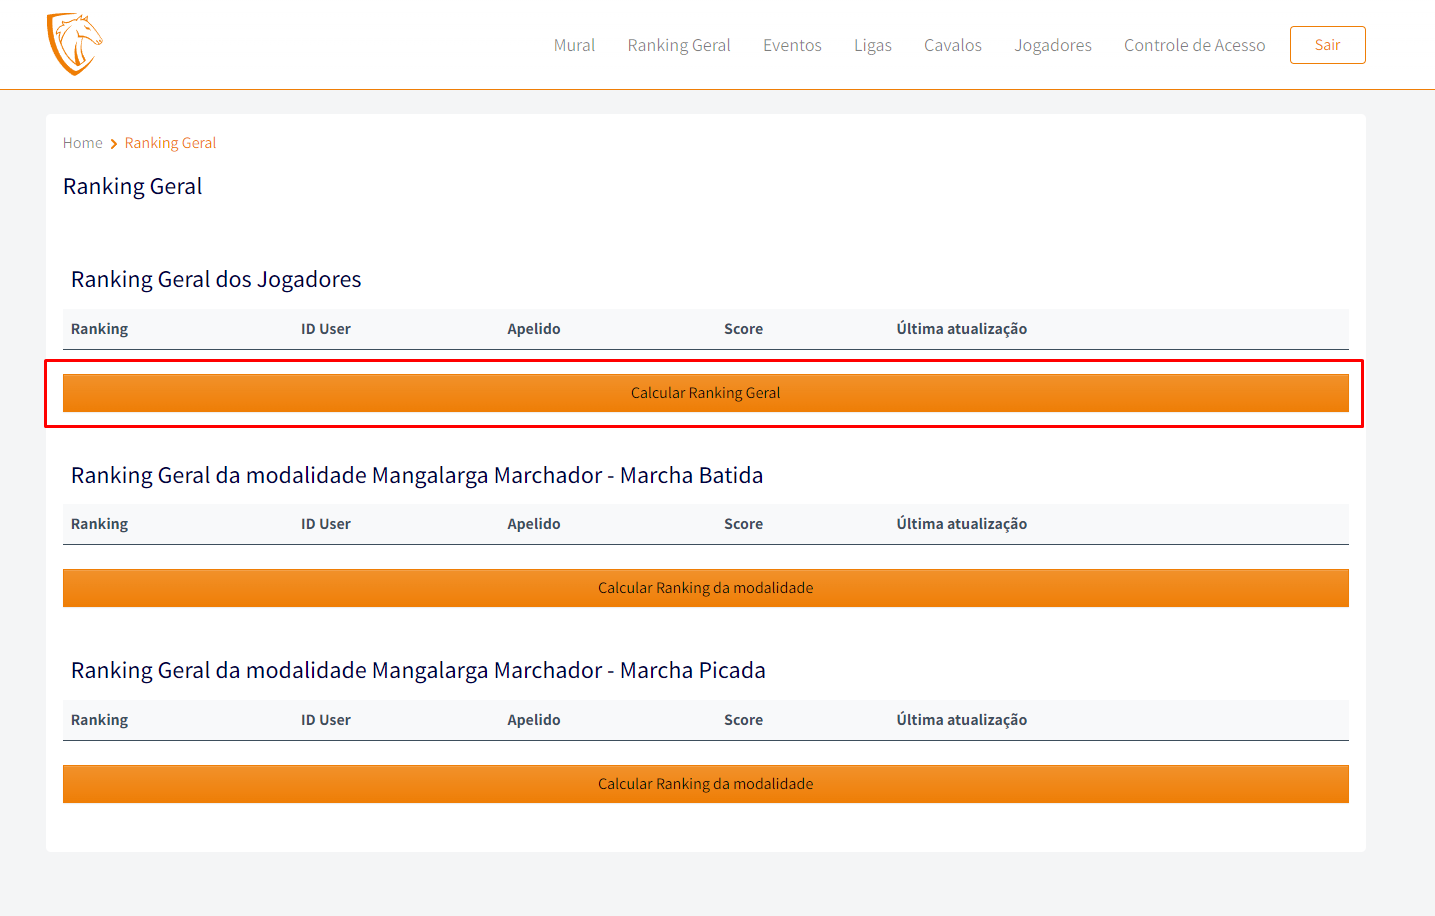
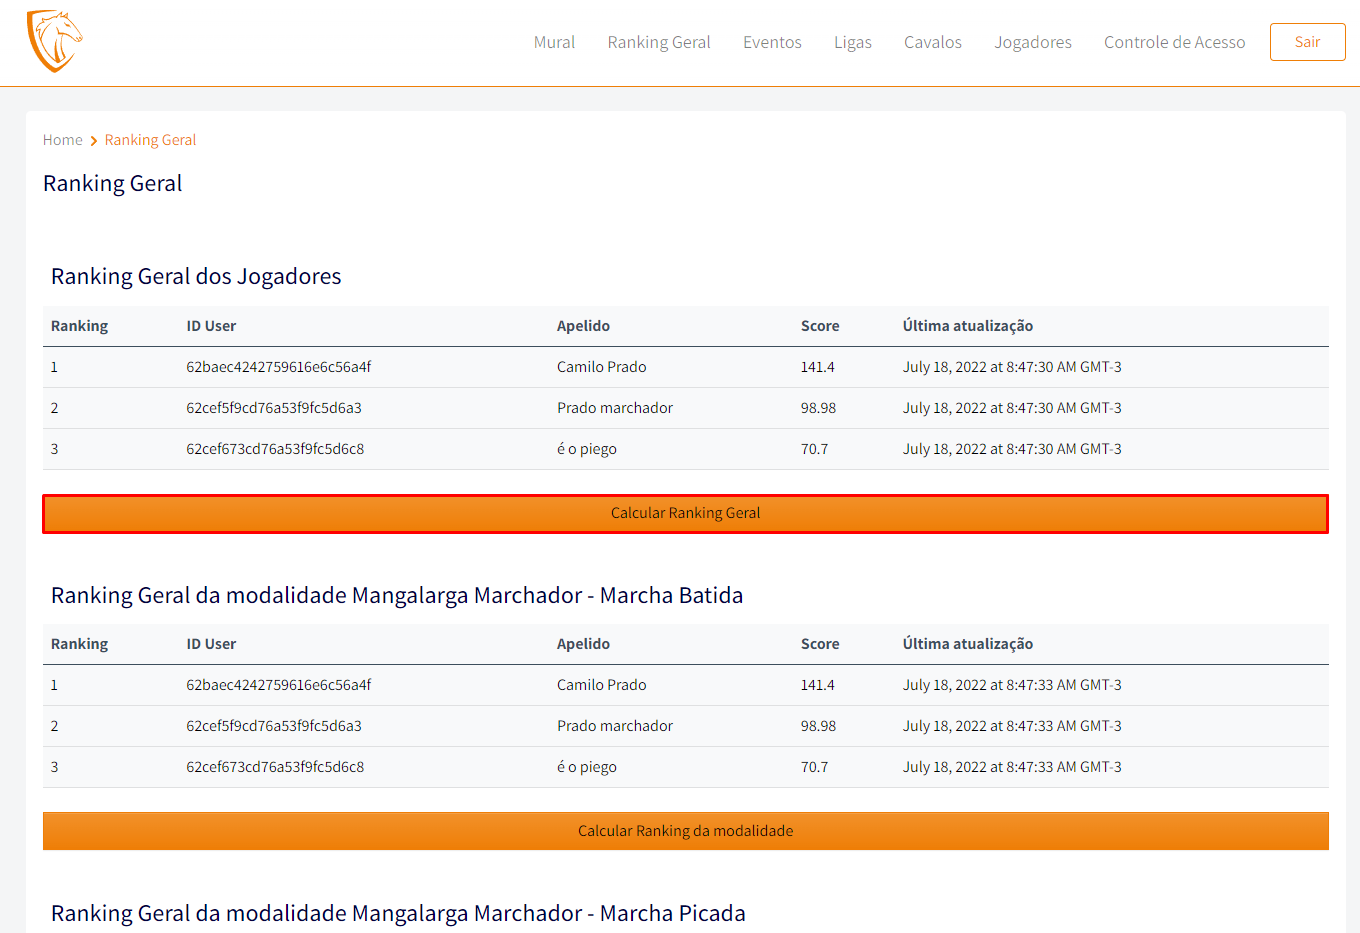
revisão

diff --git a/docs/Manual do Backoffice/ranking-geral.md b/docs/Manual do Backoffice/ranking-geral.md
@@ -15,6 +15,36 @@ O **Ranking Geral** é dividido em 3 partes:
 
 ## COMO CALCULAR OS RANKINGS GERAIS?
 
-### 1. Clique em Calcular Ranking
+### 1. Clique em Calcular Ranking Geral
+
+:::note ATENÇÃO
+
+Para gerar o Ranking Geral, é necessario gerar o Ranking de ao menos uma liga paga.
+
+:::
 
 ![Campeonato](/img/backoffice/RankingGeral.png)
+
+## COMO CALCULAR O RANKING GERAL DA MARCHA BATIDA?
+
+### 1. Clique em Calcular Ranking da modalidade
+
+:::note ATENÇÃO
+
+Para gerar o Ranking Geral da Marcha batida, é necessario gerar o Ranking de ao menos uma liga paga de um dos eventos de marcha batida.
+
+:::
+
+![Campeonato](/img/backoffice/RankingBatida.png)
+
+## COMO CALCULAR O RANKING GERAL DA MARCHA PICADA?
+
+### 1. Clique em Calcular Ranking da modalidade
+
+:::note ATENÇÃO
+
+Para gerar o Ranking Geral da Marcha picada, é necessario gerar o Ranking de ao menos uma liga paga de um dos eventos de marcha picada.
+
+:::
+
+![Campeonato](/img/backoffice/RankingPicada.png)

diff --git a/docs/Manual do Backoffice/ligas.md b/docs/Manual do Backoffice/ligas.md
@@ -31,3 +31,29 @@ sidebar_position: 7
 ### 4. Clique em finalizar.
 
 ![Categoria](/img/backoffice/liga3.png)
+
+## COMO CALCULAR O RANKING DA LIGA?
+
+### 1. Acesse a tela de LIGAS
+
+### 2. Clique no icone de setas da liga que deseja gerar o ranking.
+
+:::note ATENÇÃO
+
+Para gerar o Ranking da liga, é necessario gerar a pontuação e os Rankings das categorias do evento base.
+
+:::
+
+![Categoria](/img/backoffice/liga4.png)
+
+### 3. Caso deseje ver as informações da liga, clique em ''MOSTRAR''
+
+![Categoria](/img/backoffice/liga5.png)
+
+### 4. Clique em ''VER RANKING DA LIGA''
+
+![Categoria](/img/backoffice/liga6.png)
+
+### 5. Clique em ''GERAR RANKING DA LIGA''
+
+![Categoria](/img/backoffice/liga7.png)
